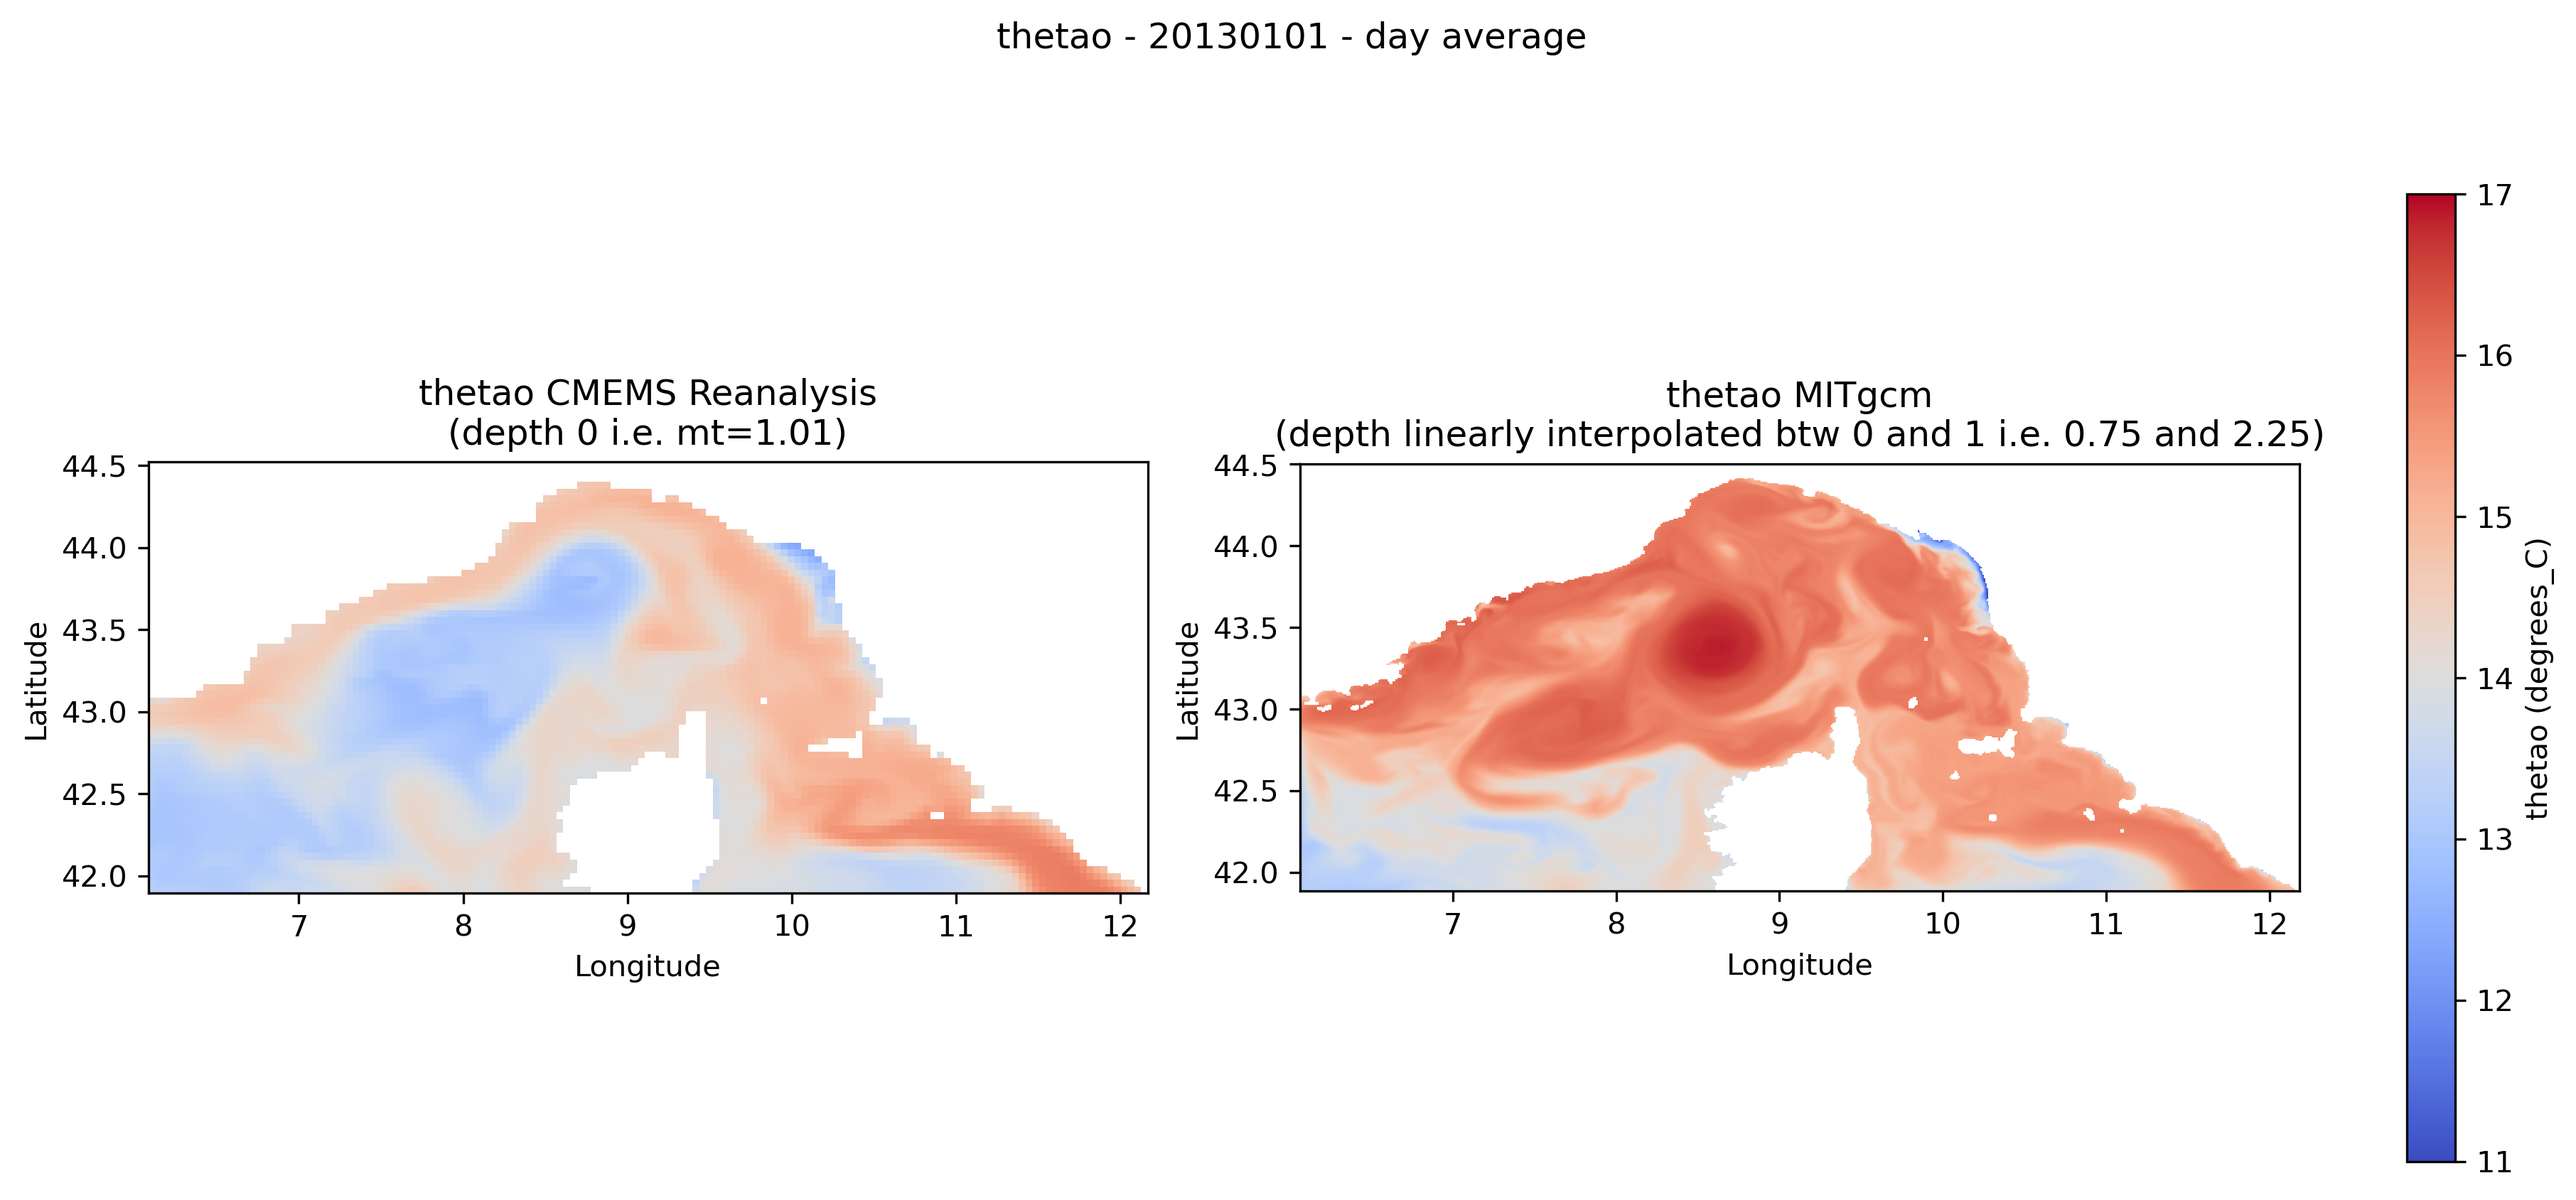
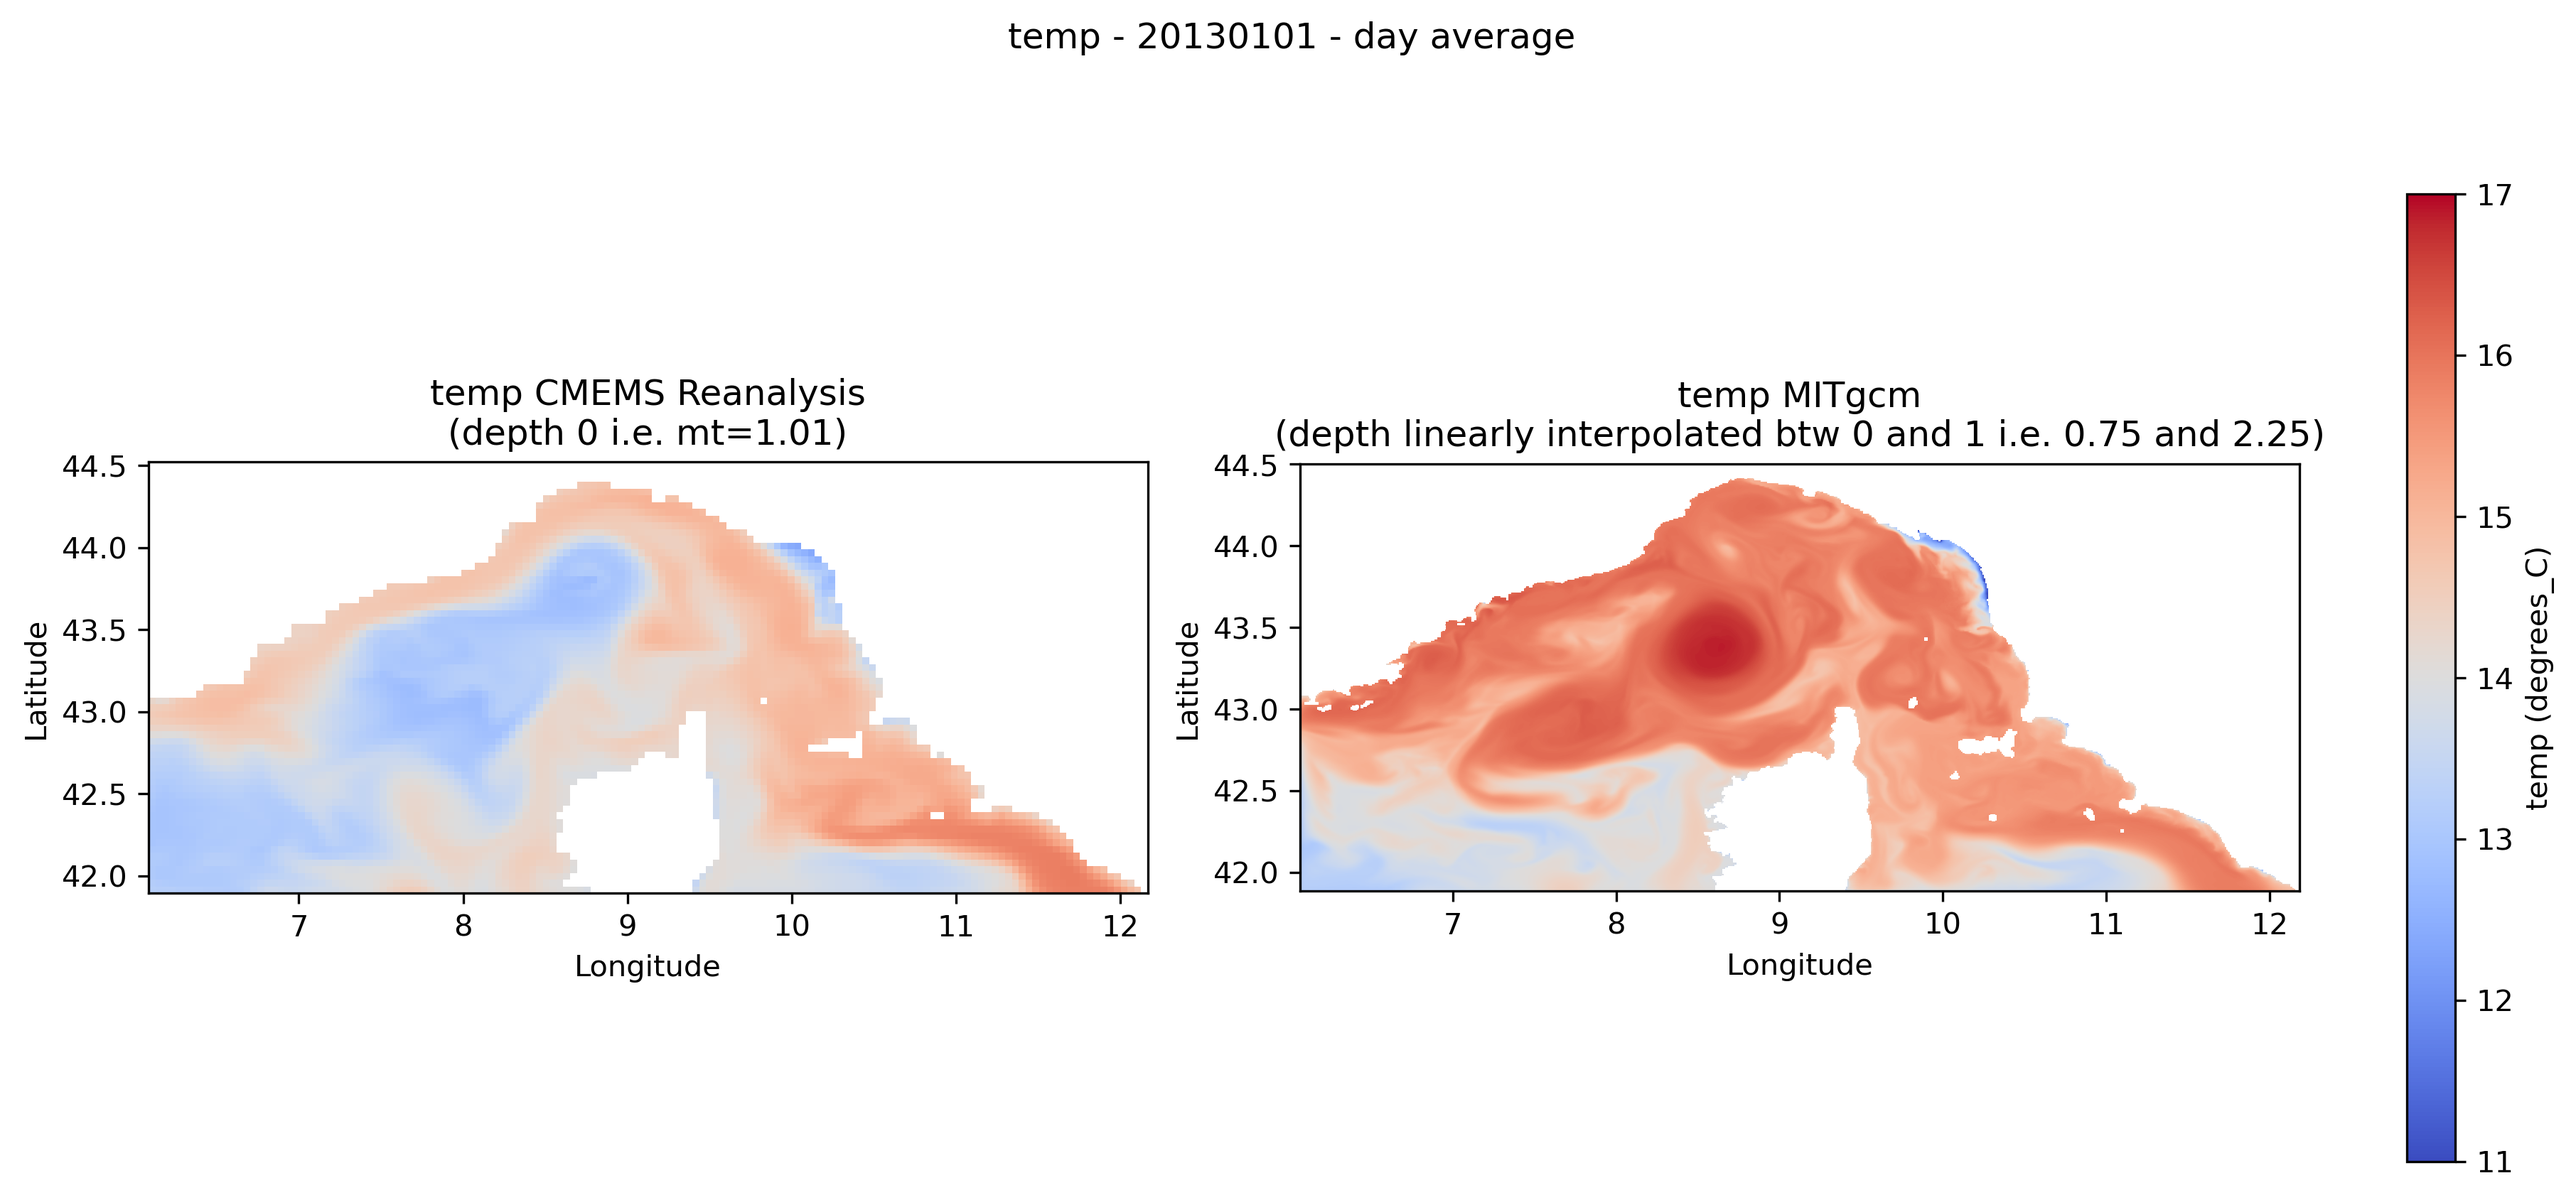
Adapted script for day map comparing thetao in cmems and mitgcm

diff --git a/scripts/map_cmems_mitgcm_var_day.py b/scripts/map_cmems_mitgcm_var_day.py
@@ -2,6 +2,21 @@
 ## Imports and setup
 # %%
 import matplotlib.pyplot as plt
+from IPython import get_ipython
+import sys
+from pathlib import Path
+
+# %% 
+## Get current working directory
+# cwd = my_sys_utilities.get_cwd()
+try:
+    get_ipython()  # Jupyter or IPython environment
+    cwd = Path.cwd()  # interactive window
+    if sys.stdin and sys.stdin.isatty():
+        cwd = str(Path(__file__).resolve().parent.parent)  # command line
+        sys.path.append(cwd)
+except NameError:
+    cwd = str(Path(__file__).resolve().parent.parent)  # command line
 
 # %% [markdown]
 ### Import local settings and liabraries
@@ -11,10 +26,6 @@ from lib import my_sys_utilities
 from lib import my_nc_utilities
 from lib import my_plot_utilities
 
-#%% [markdown]
-### Get current working directory
-#%%
-cwd = my_sys_utilities.get_cwd()
 
 #%% [markdown]
 ### Reload modules (comment for performance, uncomment for development i.e. when editing the modules)
@@ -32,7 +43,7 @@ target_date = my_sys_utilities.get_target_date(
     "YYYYMMDD",
 )
 target_var = my_sys_utilities.get_target_var(
-    "thetao",
+    "temp",
 )
 
 #%% [markdown]
@@ -129,7 +140,7 @@ cbar = fig.colorbar(
     c_rean_im, 
     ax=axs, 
     orientation="vertical", 
-    label=f"{target_var} ({m_ds.variables[target_var].units})", 
+    label=f"{target_var} ({m_ds.variables[spitbran_config.cfg_var_name[target_var]['c-rean']].units})", 
     shrink=0.8
 )
 
